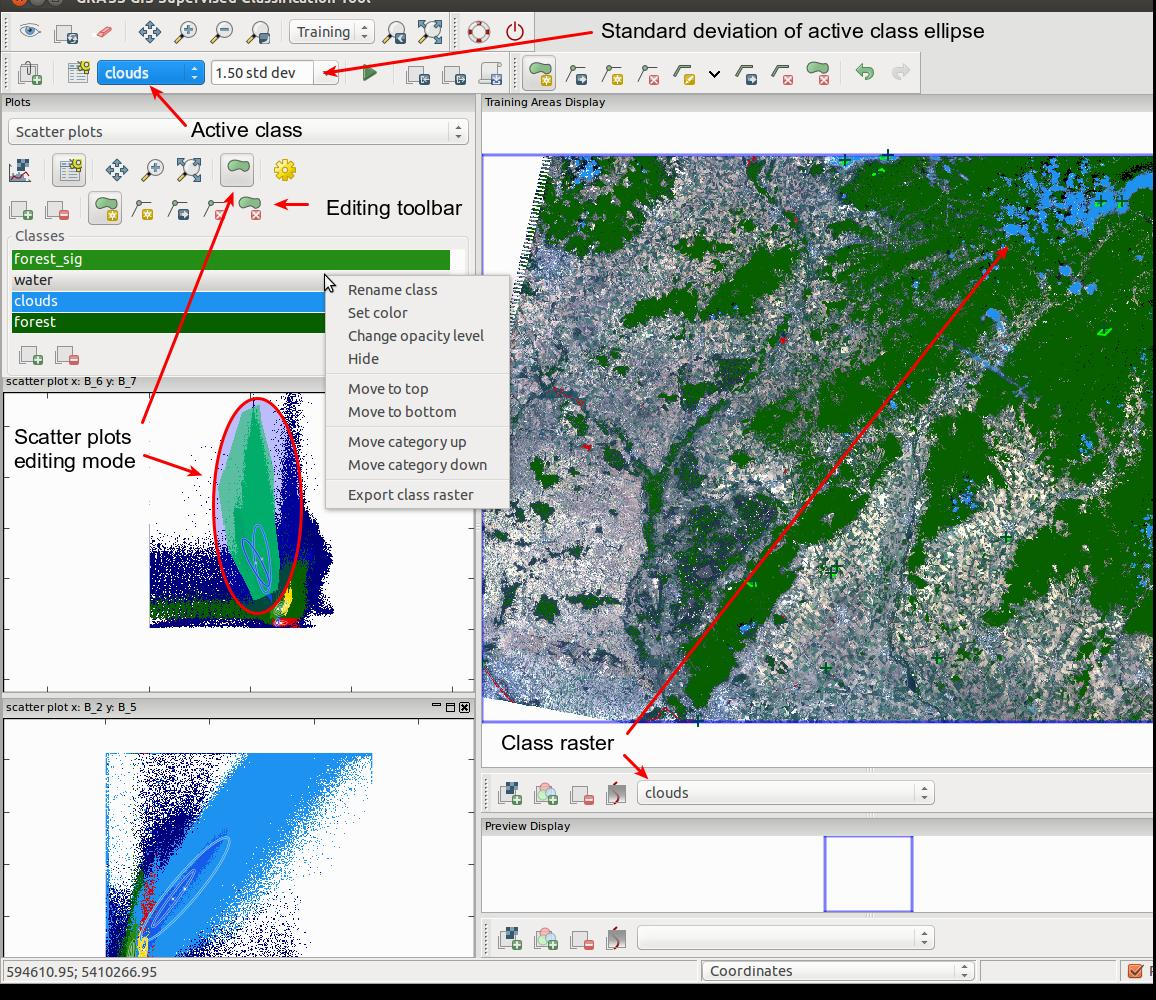
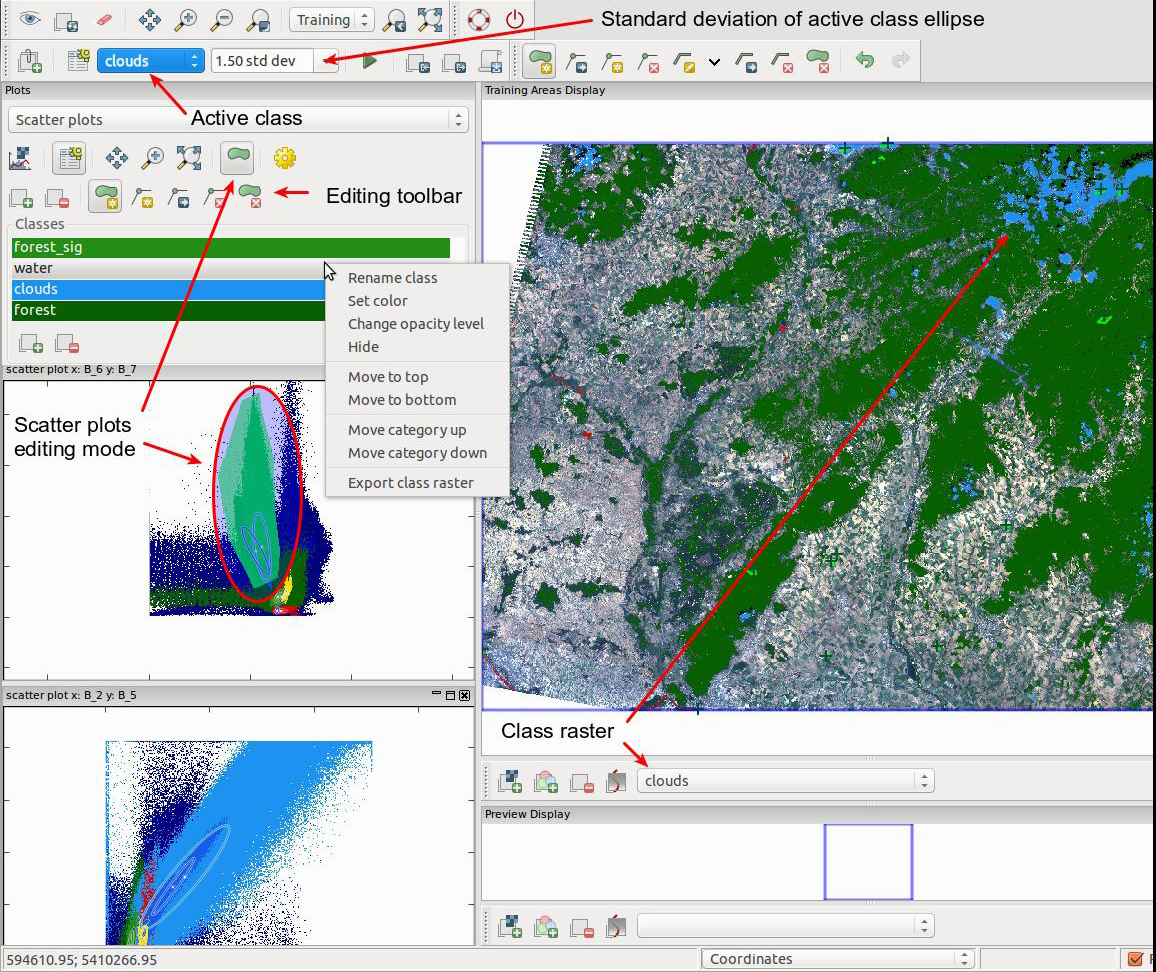
iscatt manual cosmetics + figure cropped
git-svn-id: https://svn.osgeo.org/grass/grass/trunk@57888 15284696-431f-4ddb-bdfa-cd5b030d7da7

diff --git a/gui/wxpython/docs/wxGUI.iscatt.html b/gui/wxpython/docs/wxGUI.iscatt.html
@@ -3,26 +3,26 @@
 
 <h2>DESCRIPTION</h2>
 
-<em>Interactive Scatter Plot Tool</em> allows to analyze group of raster maps. 
-    The tool is integrated into <em><a href="wxGUI.iclass.html">
-    Supervised Classification Tool (wx.iclass) </a></em> (see the screen shot bellow). 
-    Also it is possible to launch it from Map Display Window 
-    (Analyze map → Interactive Scatter Plot Tool). 
+<b>Interactive Scatter Plot Tool</b> allows to analyze group of raster
+maps. The tool is integrated into <em><a href="wxGUI.iclass.html">
+Supervised Classification Tool</a></em> (see the screen shot bellow).
+Also it is possible to launch it from Map Display Window (<tt>Analyze map
+&rarr; Interactive Scatter Plot Tool</tt>).
 
 The main idea of the tool is that everything is linked together 
 (scatter plots together and mapwindow with the scatter plots).
 
 The main feature of the tool is the interactivity, which allows user to: 
 <ul>
-  <li> work with multiple plots, which represents multiple raster bands combinations.
+  <li> work with multiple plots, which represents multiple raster bands combinations,
   </li>
   <li> highlight plotted points in open scatter plots according to currently 
-       chosen pixels for classes by it's training areas (supported only in wx.iclass)
+       chosen pixels for classes by it's training areas (supported only in <em>Supervised Classification Tool</em>),
   </li>
   <li> be able to define areas in plots and the tool will highlight pixels in 
-       map display window and corresponding points in other plots
+       map display window and corresponding points in other plots,
   </li>
-  <li> plot of confidence ellipses
+  <li> plot of confidence ellipses.
   </li>
 </ul>
 
@@ -35,7 +35,7 @@ The main feature of the tool is the interactivity, which allows user to:
 </center>
 
 If editing mode is activated (the green polygon tool in toolbar), the areas which were selected 
-in the scatter plots are highlighted. In the image you can see this area for scatter plot of bands B_6 B_7 inside the ellipse. 
+in the scatter plots are highlighted. In the image you can see this area for scatter plot of bands <tt>B_6, B_7</tt> inside the ellipse. 
 Opacity and color of the selected area can be set in settings. The area corresponds to the active class (in this case clouds). 
 Selected areas are subset of areas, which belongs to the category.
 <p>
@@ -60,13 +60,13 @@ The raster range can be lowered using <em><a href="r.rescale.html">r.rescale</a>
 <h2>KNOWN ISSUES</h2>
 
 Selection of areas in mapwindow is currently supported only if the tool was launched from 
-<em><a href="wxGUI.iclass.html">Supervised Classification Tool (wx.iclass) </a></em>
+<em><a href="wxGUI.iclass.html">Supervised Classification Tool</a></em>.
 
 <h2>SEE ALSO</h2>
 
 <em>
   <a href="wxGUI.html">wxGUI</a><br>
-  <a href="wxGUI.components.html">wxGUI components</a>
+  <a href="wxGUI.components.html">wxGUI components</a>,
   <a href="r.rescale.html">r.rescale</a><br>
 </em>
 
